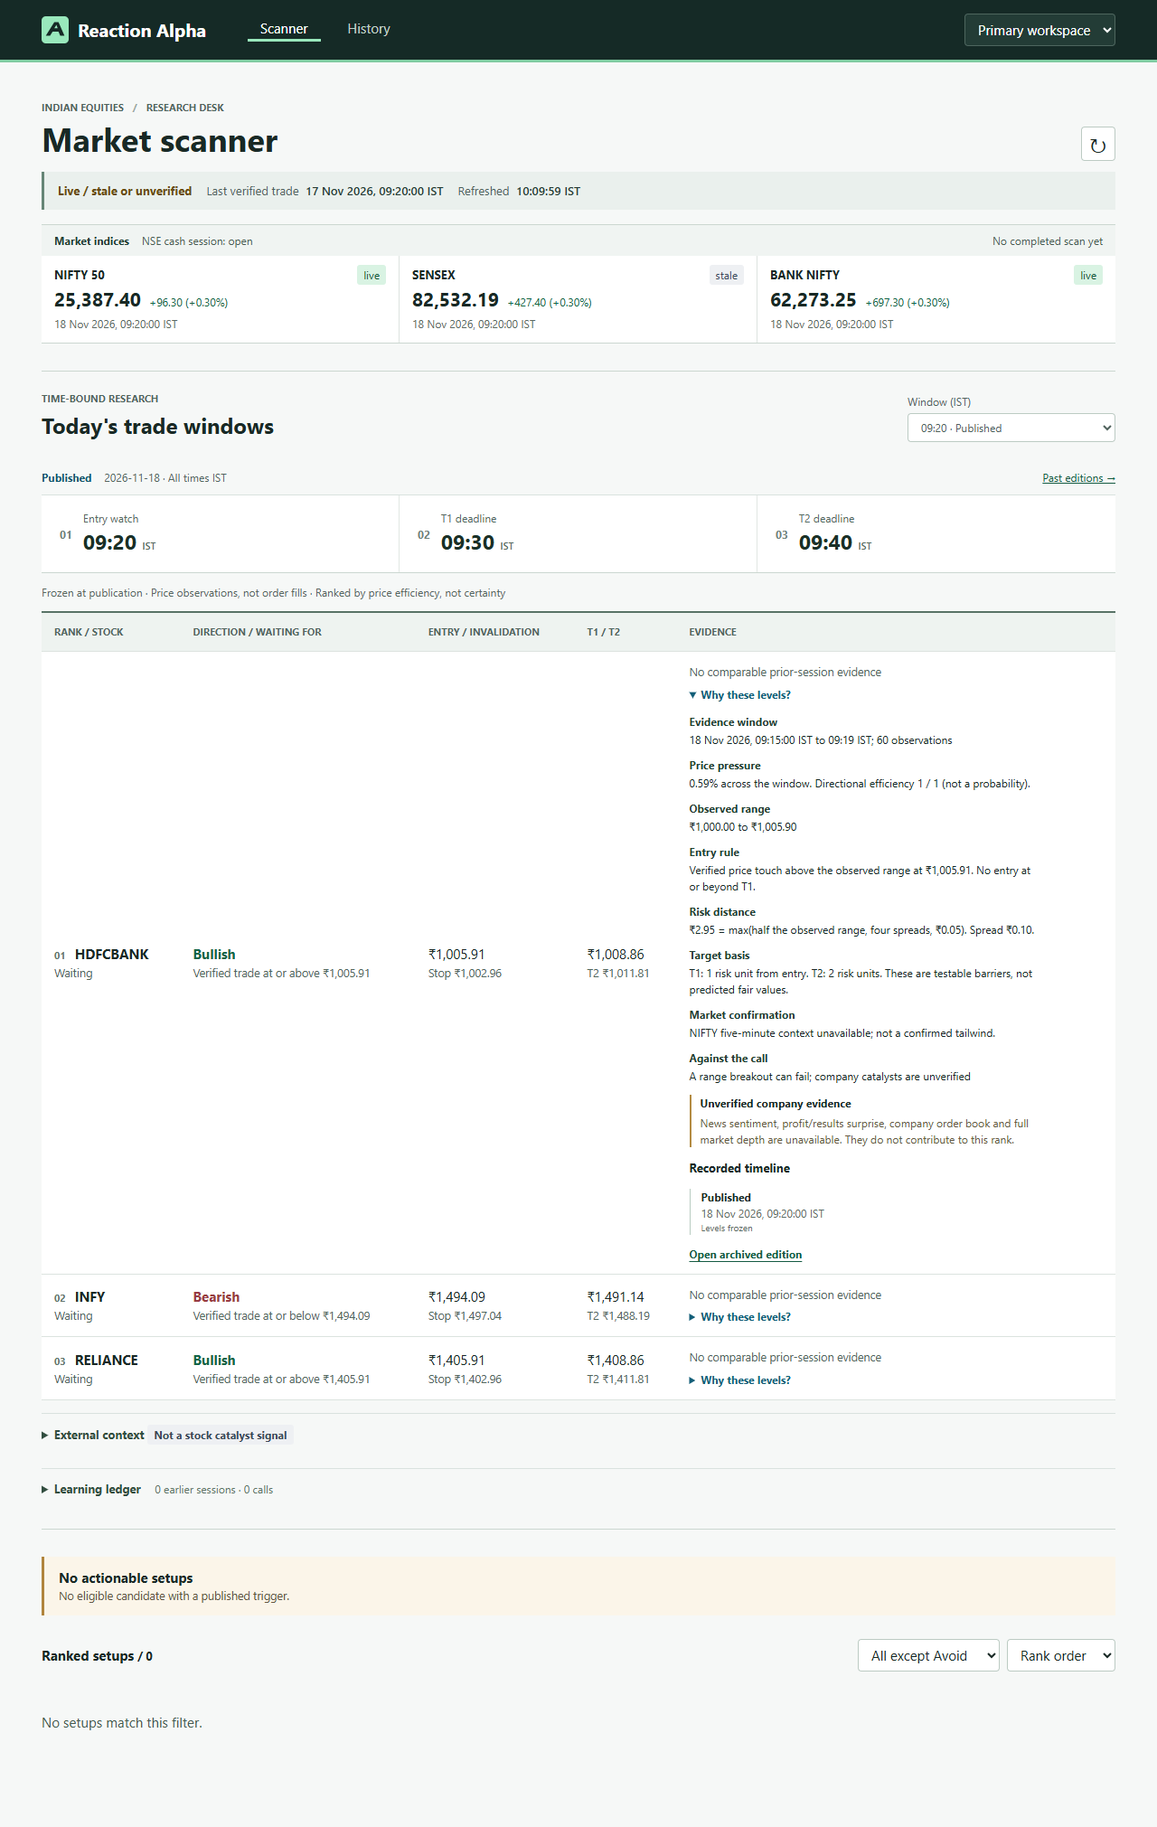
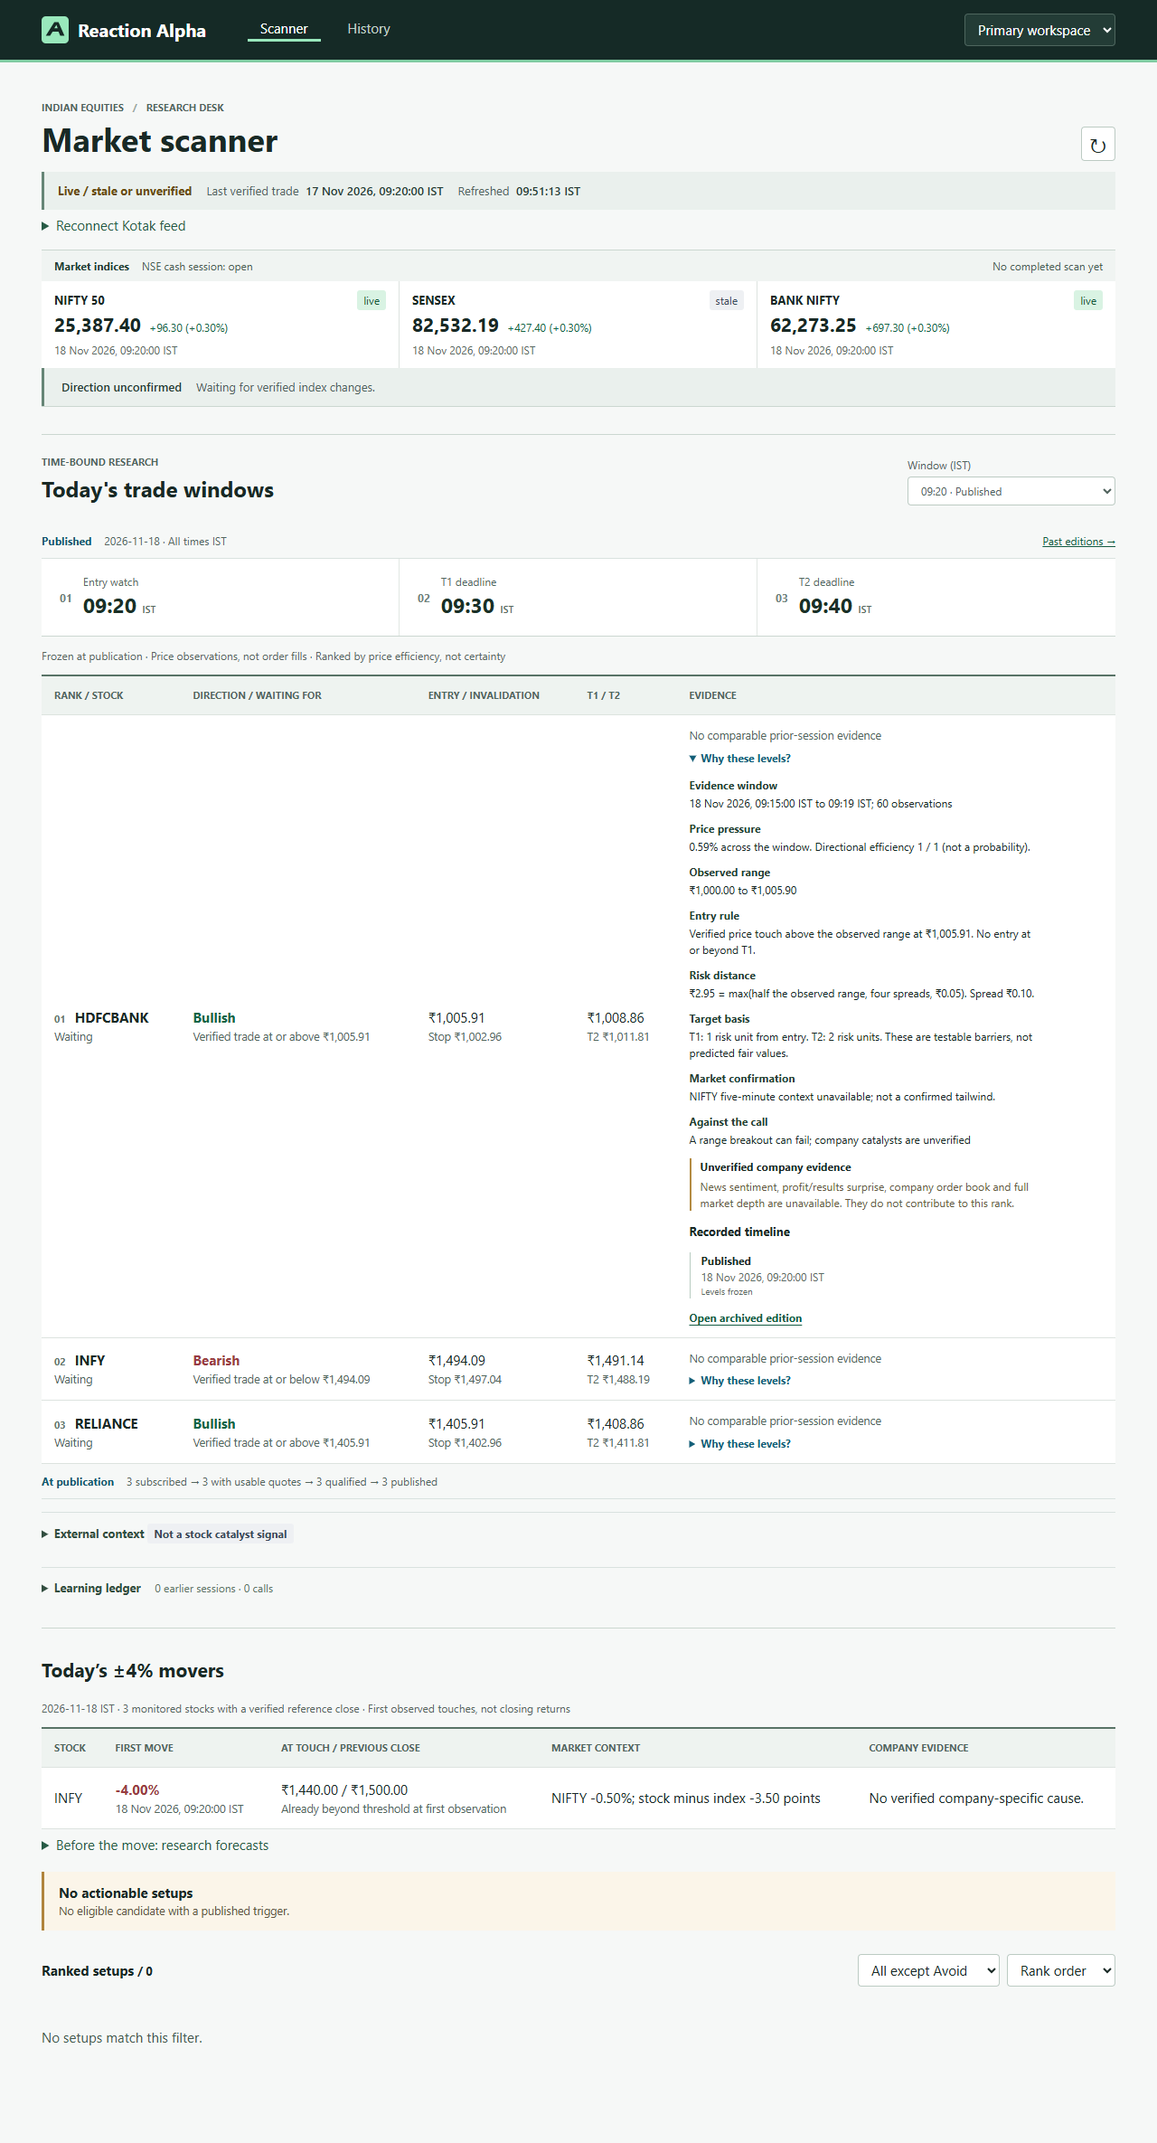
Track observed four-percent movers and prospective research forecasts

diff --git a/reaction_alpha/workspace_ui/research-desk.js b/reaction_alpha/workspace_ui/research-desk.js
@@ -97,6 +97,7 @@ async function loadEditions(){
  const requested=isHistory&&/^\d+$/.test(params.get('edition')||'')?'?slot='+params.get('edition'):'';
  const d=await get('/api/timed-editions'+requested);if(d.mode!=='live')return;
  const old=$("editionSlot").value;deskData=d;
+ paintMovers(d.daily_movers);
  const options=isHistory?(d.editions||[]).map(e=>({slot:e.slot,phase:'Archived'})):(d.schedule?.slots||[]);
  $("editions").hidden=false;$("editionTitle").textContent=isHistory?'Timed forecast archive':"Today's trade windows";
  $("editionSlot").innerHTML=options.map(r=>'<option value="'+r.slot+'">'+esc(isHistory?indexStamp.format(r.slot*1000):slotTime(r.slot))+' · '+esc(r.phase)+'</option>').join('');
@@ -109,4 +110,21 @@ async function loadEditions(){
  const report=$("editionReport");
  if(!report.querySelector('.desk-error'))report.insertAdjacentHTML('afterbegin','<p class="desk-error" role="status">Timed research update failed. Any displayed data is from the previous successful request.</p>');
  }finally{editionBusy=false}
+}
+
+function paintMovers(d){
+ const box=$("dailyMovers");if(!d){box.hidden=true;return}
+ const expanded=box.querySelector('details')?.open;
+ box.hidden=false;
+ box.innerHTML='<h2>Today’s ±4% movers</h2><p class="desk-caption">'+esc(d.day)+' IST · '+esc(d.covered)+' monitored stocks with a verified reference close · First observed touches, not closing returns</p>'+
+ table(['Stock','First move','At touch / previous close','Market context','Company evidence'],d.movers.map(r=>{
+ const f=r.filing;
+ return [esc(r.symbol),'<b class="'+(r.side==='Up'?'up':'down')+'">'+esc(signedFmt.format(r.percent))+'%</b><small>'+esc(deskStamp(r.at))+'</small>',
+ px(r.price)+' / '+px(r.close)+(r.first_observation===r.at?'<small>Already beyond threshold at first observation</small>':r.first_observation?'<small>First seen '+esc(signedFmt.format(r.initial_pct))+'% at '+esc(slotTime(r.first_observation))+' IST</small>':''),
+ r.nifty_pct==null?'No fresh NIFTY comparison':'NIFTY '+esc(signedFmt.format(r.nifty_pct))+'%; stock minus index '+esc(signedFmt.format(r.percent-r.nifty_pct))+' points',
+ f?(/^https:\/\/www\.sec\.gov\/Archives\/edgar\//.test(f.url)?'<a href="'+esc(f.url)+'" target="_blank" rel="noopener">SEC '+esc(f.form)+'</a>':'SEC '+esc(f.form))+' filed '+esc(deskStamp(f.published))+'. Cause unconfirmed.':'No verified company-specific cause.'];
+ }),d.covered?'No ±4% move observed in this coverage.':'No verified stock observations with previous closes today.')+
+ '<details '+(expanded?'open':'')+'><summary>Before the move: research forecasts</summary><p>First observed stock move and half-hour compared with earlier sessions. '+esc(d.training_examples)+' eligible historical examples. No live ranking changes.</p><p>Measured prior forecasts: '+esc(d.paired)+'. Model correct: '+esc(d.correct)+'. Always predict neither: '+esc(d.neither_correct)+'. Incomplete coverage can bias these counts.</p>'+
+ table(['Stock','Observed at start','Shadow forecast','Earlier examples','Measured outcome'],d.forecasts.map(r=>[esc(r.symbol),esc(signedFmt.format(r.start_pct))+'%<small>'+esc(deskStamp(r.start))+'</small>',
+ esc(r.prediction||'Insufficient evidence'),Object.entries(r.prior_counts).map(([k,v])=>esc(k)+': '+esc(v)).join(', ')||'None',esc(r.outcome||'Not measured')]),'No pre-threshold observations yet.')+'</details>';
 }

diff --git a/reaction_alpha/workspace_ui/index.html b/reaction_alpha/workspace_ui/index.html
@@ -13,5 +13,6 @@
 <button type="submit">Reconnect</button></form><small id="brokerResult" role="status">Outside trading hours, the last trade can stay unchanged after login.</small></details>
 <section id="marketStrip" aria-label="Market indices" hidden><div class="market-meta"><strong>Market indices</strong><span id="cashSession">NSE cash session: unknown</span><span id="scanActivity">Last completed scan: unknown</span></div><div id="indexRows"></div><div class="telemetry"><strong id="marketBias">Direction unconfirmed</strong><span id="marketWhy">Waiting for verified index changes.</span></div></section>
 <section id="editions" aria-label="Timed picks" hidden><div class="desk-heading"><div><div class="eyebrow">TIME-BOUND RESEARCH</div><h2 id="editionTitle">Today's trade windows</h2></div><label>Window (IST) <select id="editionSlot"></select></label></div><div id="editionReport"></div><div id="learningReport"></div></section>
+<section id="dailyMovers" hidden aria-label="Four percent movers"></section>
 <div id="notice" role="status"></div><div id="tools"></div><section id="content" aria-label="Results"></section>
 </main><dialog id="detail" aria-labelledby="detailTitle"><button id="close" aria-label="Close stock detail" title="Close">&times;</button><div id="detailBody"></div></dialog></body></html>

diff --git a/reaction_alpha/daily_movers.py b/reaction_alpha/daily_movers.py
@@ -1,0 +1,97 @@
+"""Prospective, live-only studies of observed +/-4% moves. Never sends orders."""
+from collections import Counter, defaultdict
+from datetime import datetime
+import json
+from math import isfinite
+import sqlite3
+from threading import RLock
+
+from .market_strip import IST, NAMES, session
+
+
+class DailyMovers:
+    def __init__(self, path):
+        self.path = path
+        self.day = None
+        self.rows = {}
+        self.lock = RLock()
+        with sqlite3.connect(path) as db:
+            db.execute("CREATE TABLE IF NOT EXISTS daily_movers_v1(day TEXT,symbol TEXT,payload TEXT NOT NULL,PRIMARY KEY(day,symbol))")
+
+    def _load(self, day):
+        groups = defaultdict(list)
+        self.paired = self.correct = self.neither_correct = 0
+        with sqlite3.connect(self.path) as db:
+            for (raw,) in db.execute("SELECT payload FROM daily_movers_v1 WHERE day < ? AND day >= date(?, '-180 days')", (day, day)):
+                row = json.loads(raw)
+                if row["group"] and row["outcome"]:
+                    groups[row["group"]].append((row["day"], row["outcome"]))
+                    if row["prediction"]:
+                        self.paired += 1
+                        self.correct += row["prediction"] == row["outcome"]
+                        self.neither_correct += row["outcome"] == "Neither"
+            self.rows = {s:json.loads(raw) for s,raw in db.execute(
+                "SELECT symbol,payload FROM daily_movers_v1 WHERE day=?", (day,))}
+        self.groups, self.day = groups, day
+
+    def observe(self, symbol, ts, price, close, filing=None, nifty=None):
+        if symbol in NAMES or not close or not all(isfinite(v) and v > 0 for v in (price,close)) or session(ts) != "open":
+            return
+        local = datetime.fromtimestamp(ts, IST)
+        day = local.date().isoformat()
+        with self.lock:
+            if self.day != day:
+                self._load(day)
+            row = self.rows.get(symbol)
+            if row and (ts < row["last"] or close != row["close"]):
+                return
+            move = 100*(price-close)/close
+            side = "Up" if price >= round(close*1.04, 8) else "Down" if price <= round(close*.96, 8) else None
+            dirty = not row
+            if not row:
+                bucket = ("up" if move >= 1 else "down" if move <= -1 else "near close")
+                group = None if side else f"{local.hour:02d}:{local.minute//30*30:02d} / {bucket}"
+                prior = self.groups.get(group, [])
+                counts = Counter(label for _,label in prior)
+                days = len({d for d,_ in prior})
+                leaders = counts.most_common()
+                prediction = leaders[0][0] if len(prior)>=30 and days>=5 and (len(leaders)==1 or leaders[0][1]>leaders[1][1]) else None
+                row = self.rows[symbol] = dict(symbol=symbol,day=day,close=close,start=ts,start_pct=move,
+                    group=group,prior_counts=dict(counts),prior_days=days,prediction=prediction,
+                    outcome=None,hits={},gap=False,last=ts,saved=ts)
+            if ts-row["last"] > 45 and not row["gap"]:
+                row["gap"],dirty = True,True
+            row.update(last=ts,price=price,percent=move)
+            if side and side not in row["hits"]:
+                verified = filing and filing.get("published",ts+1)<=ts and filing.get("received",ts+1)<=ts
+                benchmark = None
+                if nifty and nifty.get("previous_close") and 0 <= ts-nifty["epoch"] <= 15:
+                    benchmark = 100*(nifty["price"]-nifty["previous_close"])/nifty["previous_close"]
+                row["hits"][side] = dict(at=ts,price=price,percent=move,nifty_pct=benchmark,filing=filing if verified else None,
+                                         first_observation=row["start"],initial_pct=row["start_pct"])
+                if row["group"] and not row["outcome"] and not row["gap"]:
+                    row["outcome"] = side
+                dirty = True
+            # No-touch labels require observation through the closing seconds.
+            if local.hour==15 and local.minute==29 and local.second>=45 and row["group"] and not row["gap"] and not row["hits"] and row["outcome"] is None:
+                row["outcome"] = "Neither"
+                dirty = True
+            if side and row["outcome"]=="Neither":
+                row["outcome"] = side
+            if dirty or ts-row["saved"]>=60:
+                row["saved"]=ts
+                with sqlite3.connect(self.path) as db:
+                    db.execute("INSERT OR REPLACE INTO daily_movers_v1 VALUES (?,?,?)",(day,symbol,json.dumps(row,allow_nan=False)))
+
+    def report(self, now):
+        day = datetime.fromtimestamp(now,IST).date().isoformat()
+        with self.lock:
+            if self.day != day:
+                self._load(day)
+            rows = list(self.rows.values())
+            return dict(day=day, covered=len(rows), training_examples=sum(map(len,self.groups.values())),
+                paired=self.paired,correct=self.correct,neither_correct=self.neither_correct,
+                movers=[dict(symbol=r["symbol"],close=r["close"],side=side,**hit)
+                        for r in sorted(rows,key=lambda r:r["symbol"]) for side,hit in r["hits"].items()],
+                forecasts=[{k:r[k] for k in ("symbol","start","start_pct","prediction","prior_counts","prior_days","outcome")}
+                           for r in rows if r["group"]])

diff --git a/reaction_alpha/service.py b/reaction_alpha/service.py
@@ -43,6 +43,7 @@ from .state import InMemoryMarketStore, SymbolState
 from .trade_levels import build_trade_levels, resolve_trade_state
 from .engines.scoring_engine import UnifiedScore
 from .market_strip import IST, MarketStrip, NAMES
+from .daily_movers import DailyMovers
 from .demo_tape import trade_arrivals
 from .timed_editions import TimedEditions
 from .edition_context import EditionContext
@@ -136,6 +137,7 @@ class ReactionAlphaService:
         self._selection_thread: threading.Thread | None = None
         self._stop_event = threading.Event()
         self.editions = None
+        self.movers = None
         self.edition_context = EditionContext()
         self._live_status = "idle"
         self._last_verified_trade = None
@@ -150,6 +152,7 @@ class ReactionAlphaService:
             self._start_simulation()
         else:
             self.editions = TimedEditions(self.config.paper_trade_db_path)
+            self.movers = DailyMovers(self.config.paper_trade_db_path)
             threading.Thread(target=self.edition_context.run, args=(self._stop_event,),
                              daemon=True, name="edition-context").start()
             threading.Thread(target=self._edition_clock, daemon=True, name="edition-clock").start()
@@ -1494,6 +1497,11 @@ class ReactionAlphaService:
             if self.editions is not None:
                 self.editions.observe(tick.symbol, observed.timestamp(), tick.price,
                                       tick.bid if executable else 0, tick.ask if executable else 0)
+            if self.movers is not None:
+                self.movers.observe(tick.symbol, observed.timestamp(), tick.price,
+                                    self._ticker_prices[tick.symbol]["previous_close"],
+                                    self.edition_context.latest.get("filings", {}).get(tick.symbol),
+                                    self._ticker_prices.get("NIFTY"))
             state = self.store.update_tick(tick)
             if simulated and not self.config.simulated_market_always_open:
                 self.paper_trades.force_market_close_if_needed(tick.timestamp)

diff --git a/tests/test_daily_movers.py b/tests/test_daily_movers.py
@@ -1,0 +1,46 @@
+from datetime import datetime, timedelta
+
+from reaction_alpha.daily_movers import DailyMovers
+from reaction_alpha.market_strip import IST
+
+
+def test_movers_exact_boundaries_reversal_and_restart(tmp_path):
+    path = tmp_path/"ticks.db"
+    b = DailyMovers(path)
+    t = datetime(2026,11,19,11,tzinfo=IST).timestamp()
+    b.observe("NIFTY",t,104,100)
+    b.observe("UNKNOWN",t,104,None)
+    b.observe("ABC",t,101,100)
+    b.observe("ABC",t+1,104,100,{"published":t+3,"received":t+3},
+              {"epoch":t,"price":201,"previous_close":200})
+    b.observe("ABC",t+2,96,100)
+    b.observe("LATE",t+3,105,100)
+    r=DailyMovers(path).report(t+4)
+    assert r["covered"]==2 and len(r["movers"])==3
+    up,down,late=r["movers"]
+    assert up["percent"]==4 and up["filing"] is None and up["nifty_pct"]==.5
+    assert down["percent"]==-4 and late["symbol"]=="LATE"
+    assert len(r["forecasts"])==1 and r["forecasts"][0]["outcome"]=="Up"
+
+
+def test_train_from_prior_sessions_only_include_controls_not_gaps(tmp_path):
+    b=DailyMovers(tmp_path/"ledger.db")
+    for i in range(5):
+        day=datetime(2026,11,9,15,29,30,tzinfo=IST)+timedelta(days=i+int(i>=1))
+        # Skip the exchange holiday and weekend.
+        if day.weekday()==5:
+            day+=timedelta(days=2)
+        t=day.timestamp()
+        for j in range(6):
+            b.observe(str(j),t,101,100)
+            b.observe(str(j),t+16,104 if j<4 else 101,100)
+        b.observe("gap",t-120,101,100)
+        b.observe("gap",t+16,101,100)
+    t=datetime(2026,11,19,15,29,30,tzinfo=IST).timestamp()
+    b.observe("NEW",t,101,100)
+    f=b.report(t)["forecasts"][0]
+    assert f["prior_counts"]=={"Up":20,"Neither":10}
+    assert f["prediction"]=="Up" and f["prior_days"]==5
+    b.observe("NEW",t+2,96,100)
+    r=b.report(t+86400)
+    assert r["paired"]==1 and r["correct"]==0 and r["movers"]==[]

diff --git a/tests/edition_browser.py b/tests/edition_browser.py
@@ -24,6 +24,10 @@ def fixture(path):
     book.tick(SLOT, True)
     data = book.snapshot(SLOT+2)
     data.update(mode="live", context={})
+    data["daily_movers"] = dict(day="2026-11-18", covered=3, training_examples=0,
+        paired=0, correct=0, neither_correct=0, forecasts=[], movers=[
+        dict(symbol="INFY",close=1500,side="Down",at=SLOT,price=1440,percent=-4,
+             first_observation=SLOT,initial_pct=-4,nifty_pct=-.5,filing=None)])
     yesterday = deepcopy(data["editions"][0])
     yesterday["slot"] -= 86400
     data["editions"].append(yesterday)
@@ -65,6 +69,8 @@ def run():
             expect(page.locator("#editionSlot")).not_to_contain_text("17 Nov")
             expect(page.locator("#tradeTime")).to_contain_text("17 Nov 2026")
             expect(page.locator("#editionReport")).to_contain_text("Frozen at publication")
+            expect(page.locator("#dailyMovers")).to_contain_text("Already beyond threshold")
+            expect(page.locator("#dailyMovers")).to_contain_text("No verified company-specific cause")
             page.screenshot(path=OUT/f"timed-scanner-{width}.png", full_page=True)
             page.locator(".pick-reason summary").first.click()
             expect(page.locator(".pick-reason").first).to_contain_text("not predicted fair values")

diff --git a/reaction_alpha/timed_editions.py b/reaction_alpha/timed_editions.py
@@ -194,6 +194,14 @@ class TimedEditions:
                 else:
                     p, reason = assess_candidate(symbol, rows, slot)
                     usable += int(reason not in {COVERAGE, BOOK})
+                    if reason == COVERAGE:
+                        stamps = [r[0] for r in rows if slot-300 <= r[0] < slot]
+                        gap = max((b-a for a,b in zip(stamps,stamps[1:])), default=0)
+                        reason = "; ".join(msg for failed,msg in (
+                            (count<12, f"{count} observations; minimum 12"),
+                            (stamps[0]>slot-270, f"First quote {stamps[0]-slot+300:.1f}s into window; limit 30s"),
+                            (slot-stamps[-1]>10, f"Last quote {slot-stamps[-1]:.1f}s old; limit 10s"),
+                            (gap>GAP, f"Longest gap {gap:.1f}s; limit {GAP}s")) if failed)
                     if p and market_move is not None and market_move*(1 if p["direction"]=="Bullish" else -1)<-.001:
                         p, reason = None, "Opposing five-minute NIFTY move"
                     if p and any(r[0] >= slot and (r[4] >= p["entry"] if p["direction"]=="Bullish"

diff --git a/reaction_alpha/edition_context.py b/reaction_alpha/edition_context.py
@@ -62,7 +62,8 @@ class EditionContext:
                                 accepted = datetime.fromisoformat(stamp.replace("Z", "+00:00"))
                                 if accepted.tzinfo and accepted.timestamp() <= time.time():
                                     data["filings"][symbol] = dict(form=form, published=accepted.timestamp(),
-                                                                   received=time.time(), accession=accession)
+                                                                   received=time.time(), accession=accession,
+                                                                   url=f"https://www.sec.gov/Archives/edgar/data/{cik}/{accession.replace('-', '')}/{accession}-index.html")
                                 break
                     except (requests.RequestException, KeyError, TypeError, ValueError):
                         data["sec_status"] = "SEC partial or unavailable"

diff --git a/reaction_alpha/api.py b/reaction_alpha/api.py
@@ -565,6 +565,7 @@ def create_app(config: ReactionAlphaConfig | None = None) -> FastAPI:
     def timed_editions(slot: int | None = None):
         data = service.editions.snapshot(time.time(), slot) if service.editions else {"editions": []}
         return {**data, "mode": "simulated" if service.config.simulated else "live",
+                "daily_movers": service.movers.report(time.time()) if service.movers else None,
                 "context": service.edition_context.latest}
 
     @app.get("/api/demo/market-strip")

diff --git a/README.md b/README.md
@@ -21,6 +21,23 @@ guessed. Published deadlines are evaluation windows, not estimated arrival times
 
 ## Implemented Evidence
 
+**Daily +/-4% study:** Scanner lists the first verified touch of each boundary
+against the stock's same-session reference close, even if the move reverses.
+Coverage is the monitored live feed, not the entire exchange. First observed
+already beyond the boundary is reported, not credited as a forecast. Fresh NIFTY
+comparison and available timestamped SEC filing metadata are context, not a
+causal news model. Indian company news coverage is not comprehensive.
+
+On first observation inside the band, freeze a shadow forecast for the first
+observed boundary through session close. Group by starting half-hour and starting
+move (below -1%, within 1%, above +1%, inclusive at the outer boundaries).
+Use the most frequent label from the preceding 180 days only after 30 measured
+examples across five sessions; abstain on ties. Include neither-touch controls
+only with no observed gap over 45 seconds and coverage into the final 15 seconds.
+Unobserved gaps are not negative examples. Selective coverage and survivorship
+can bias results; compare prospective predictions to always-neither before
+considering promotion. Stored locally in the persistent paper database.
+
 History > Performance now includes a Direction scorecard across archived sessions,
 separated by source. New live forecasts freeze NIFTY and stock five-minute
 continuation baselines when timestamped coverage is available. Each uses a
